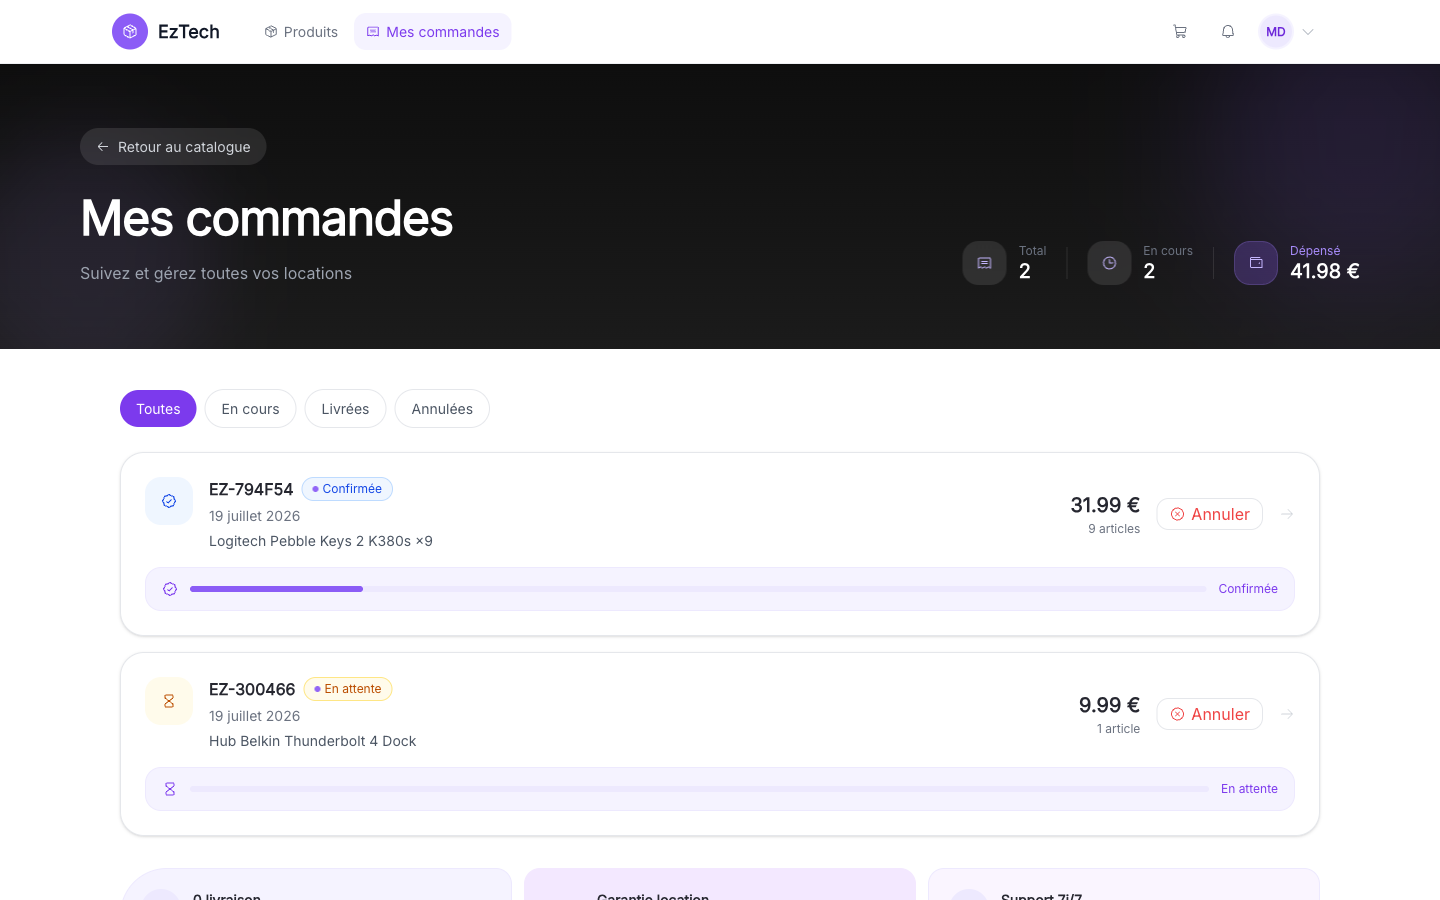
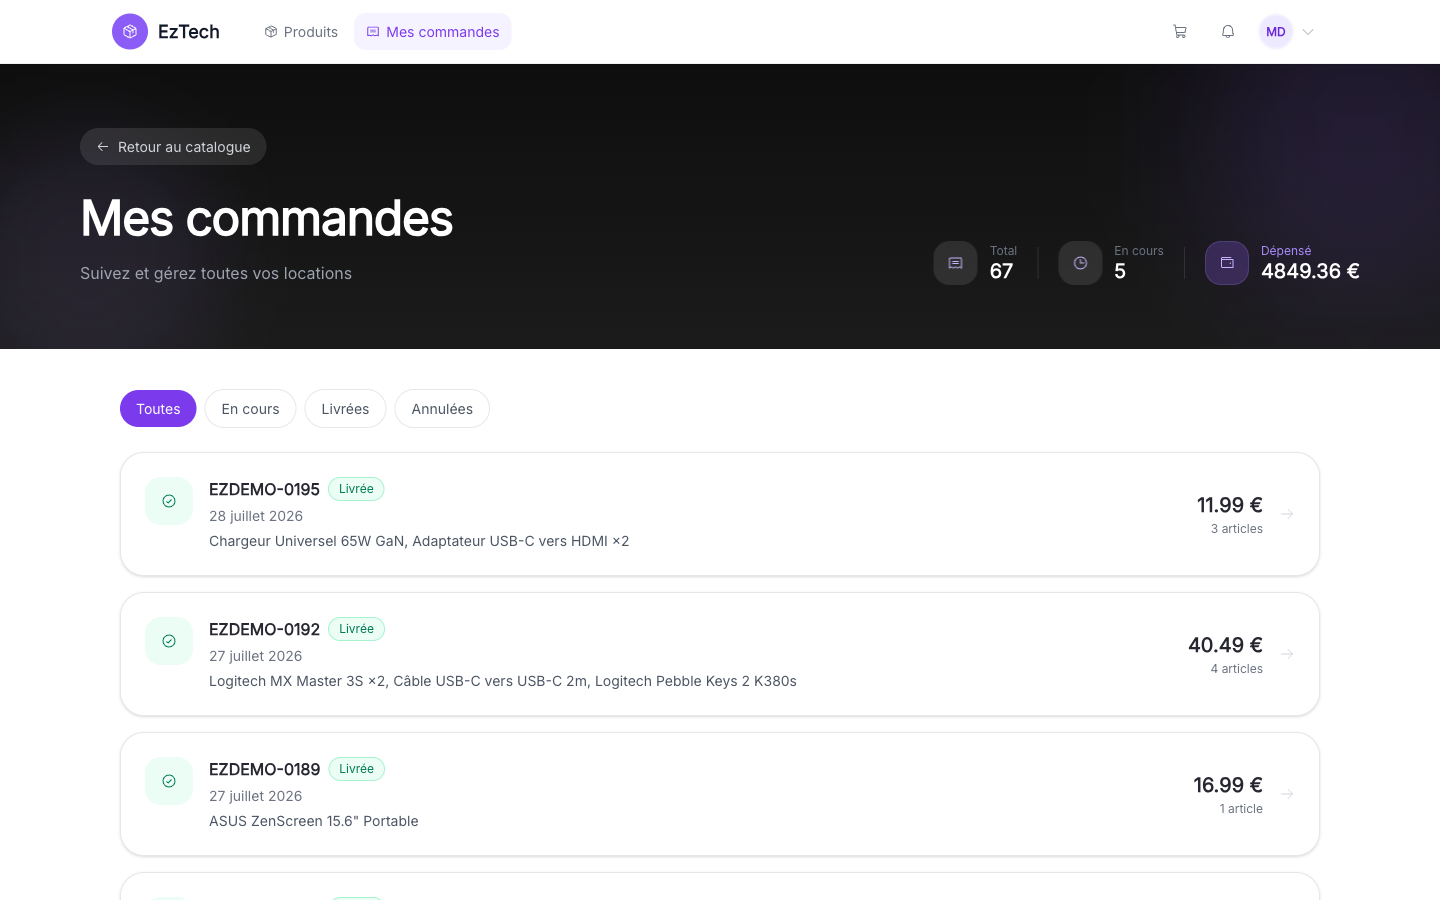
Screenshots for all four roles, plus two accent fixes (#40)
* add warehouse and admin screenshots, fix prete accent

* extract e2e waitForHydration helper with a 30s cold-start timeout

diff --git a/frontend/e2e/helpers.ts b/frontend/e2e/helpers.ts
@@ -1,0 +1,25 @@
+import type { Page } from '@playwright/test'
+
+// The stack under test serves the Nuxt DEV server (SSR + client hydration). Playwright's auto-wait
+// only checks an element is visible/enabled — NOT that Vue has finished hydrating and wired up its
+// listeners. Clicking "Se connecter" before hydration completes runs a NATIVE form submit (full-page
+// GET to /login) instead of the @submit.prevent handler: the /auth/login request never fires and the
+// test hangs on waitForURL('**/products'). Wait for the Vue app to be mounted on #__nuxt (Vue sets
+// __vue_app__ on the mount root once hydration runs) before the first interaction.
+
+// En mode dev, chaque route est compilee a sa premiere requete. L'hydratation d'une route froide
+// = compilation + transfert + montage de l'app Vue, ce qui depasse regulierement les 15 s de
+// `actionTimeout` (le defaut applique a waitForFunction). On s'aligne sur `navigationTimeout`
+// (30 s, cf. playwright.config.ts) : l'hydratation releve du cout de navigation, pas d'une action.
+//
+// Sans ce timeout explicite, le premier fichier de la suite — cross-rider-customer.spec.ts, en
+// tete par ordre alphabetique — encaissait seul le demarrage a froid et echouait par
+// intermittence, alors que les specs suivantes profitaient d'un serveur deja chaud.
+const HYDRATION_TIMEOUT = 30_000
+
+export async function waitForHydration(page: Page) {
+  await page.waitForFunction(() => {
+    const el = document.getElementById('__nuxt') as (HTMLElement & { __vue_app__?: unknown }) | null
+    return !!(el && el.__vue_app__)
+  }, undefined, { timeout: HYDRATION_TIMEOUT })
+}

diff --git a/frontend/e2e/rider.spec.ts b/frontend/e2e/rider.spec.ts
@@ -1,4 +1,5 @@
-import { test, expect, type Page, request as playwrightRequest } from '@playwright/test'
+import { test, expect, request as playwrightRequest } from '@playwright/test'
+import { waitForHydration } from './helpers'
 
 // Parcours livreur de bout en bout : inscription (via seed) → passage en ligne → acceptation
 // d'une commande → mises à jour de statut jusqu'à livrée → gains crédités.
@@ -15,14 +16,6 @@ const CUSTOMER_PASSWORD = process.env.E2E_PASSWORD ?? 'password123'
 
 // Les 4 transitions successives déclenchées par le livreur (libellés = NEXT_STATUS, stores/rider.ts).
 const ADVANCE_LABELS = ["Arrivé à l'entrepôt", 'Colis récupéré', 'En route vers le client', 'Livraison effectuée']
-
-// Attendre que Vue ait fini l'hydratation avant la première interaction (cf. smoke.spec.ts).
-async function waitForHydration(page: Page) {
-  await page.waitForFunction(() => {
-    const el = document.getElementById('__nuxt') as (HTMLElement & { __vue_app__?: unknown }) | null
-    return !!(el && el.__vue_app__)
-  })
-}
 
 // Crée une commande pending_assignment directement dans le pool via l'API et renvoie sa référence
 // unique. Auth par bearer token (les mutations en cookie exigent un jeton CSRF ; le bearer non).

diff --git a/frontend/e2e/smoke.spec.ts b/frontend/e2e/smoke.spec.ts
@@ -1,17 +1,5 @@
-import { test, expect, type Page } from '@playwright/test'
-
-// The stack under test serves the Nuxt DEV server (SSR + client hydration). Playwright's auto-wait
-// only checks an element is visible/enabled — NOT that Vue has finished hydrating and wired up its
-// listeners. Clicking "Se connecter" before hydration completes runs a NATIVE form submit (full-page
-// GET to /login) instead of the @submit.prevent handler: the /auth/login request never fires and the
-// test hangs on waitForURL('**/products'). Wait for the Vue app to be mounted on #__nuxt (Vue sets
-// __vue_app__ on the mount root once hydration runs) before the first interaction.
-async function waitForHydration(page: Page) {
-  await page.waitForFunction(() => {
-    const el = document.getElementById('__nuxt') as (HTMLElement & { __vue_app__?: unknown }) | null
-    return !!(el && el.__vue_app__)
-  })
-}
+import { test, expect } from '@playwright/test'
+import { waitForHydration } from './helpers'
 
 // DEPLOY-10 committed E2E smoke gate: login -> catalogue -> cart -> checkout, with one
 // authenticated assertion at the end. Credentials default to the seeded demo customer

diff --git a/frontend/e2e/customer-journey.spec.ts b/frontend/e2e/customer-journey.spec.ts
@@ -1,4 +1,5 @@
-import { test, expect, type Page, request as playwrightRequest } from '@playwright/test'
+import { test, expect, request as playwrightRequest } from '@playwright/test'
+import { waitForHydration } from './helpers'
 
 // Parcours client : inscription → catalogue → panier → checkout, puis suivi de commande.
 //
@@ -8,13 +9,6 @@ import { test, expect, type Page, request as playwrightRequest } from '@playwrig
 const API = process.env.E2E_API_URL ?? 'http://localhost:3001'
 const CUSTOMER_EMAIL = process.env.E2E_EMAIL ?? 'marie@example.com'
 const CUSTOMER_PASSWORD = process.env.E2E_PASSWORD ?? 'password123'
-
-async function waitForHydration(page: Page) {
-  await page.waitForFunction(() => {
-    const el = document.getElementById('__nuxt') as (HTMLElement & { __vue_app__?: unknown }) | null
-    return !!(el && el.__vue_app__)
-  })
-}
 
 test('parcours client : inscription → catalogue → panier → checkout', async ({ page }) => {
   const email = `cust-e2e-${Date.now()}@example.com`

diff --git a/frontend/e2e/warehouse-journey.spec.ts b/frontend/e2e/warehouse-journey.spec.ts
@@ -1,4 +1,5 @@
 import { test, expect, type Page, request as playwrightRequest } from '@playwright/test'
+import { waitForHydration } from './helpers'
 
 // Parcours responsable d'entrepot : connexion → ajustement d'inventaire → inspection d'un retour.
 // Determinisme : le retour a inspecter est cree de bout en bout via l'API (client planifie → livreur
@@ -11,13 +12,6 @@ const CUSTOMER_EMAIL = process.env.E2E_EMAIL ?? 'marie@example.com'
 const CUSTOMER_PASSWORD = process.env.E2E_PASSWORD ?? 'password123'
 const RIDER_EMAIL = process.env.E2E_RIDER_EMAIL ?? 'rider@eztech.fr'
 const RIDER_PASSWORD = process.env.E2E_RIDER_PASSWORD ?? 'riderpass123'
-
-async function waitForHydration(page: Page) {
-  await page.waitForFunction(() => {
-    const el = document.getElementById('__nuxt') as (HTMLElement & { __vue_app__?: unknown }) | null
-    return !!(el && el.__vue_app__)
-  })
-}
 
 async function apiLogin(email: string, password: string) {
   const ctx = await playwrightRequest.newContext()

diff --git a/frontend/e2e/cross-rider-customer.spec.ts b/frontend/e2e/cross-rider-customer.spec.ts
@@ -1,4 +1,5 @@
-import { test, expect, type Page, request as playwrightRequest, type APIRequestContext } from '@playwright/test'
+import { test, expect, request as playwrightRequest, type APIRequestContext } from '@playwright/test'
+import { waitForHydration } from './helpers'
 
 // Test croise livreur ↔ client : le client, sur sa page de suivi, voit les mises a jour du livreur
 // en TEMPS REEL (socket) sans jamais rafraichir la page.
@@ -13,13 +14,6 @@ const RIDER_PASSWORD = process.env.E2E_RIDER_PASSWORD ?? 'riderpass123'
 
 // laisse le temps au socket de propager l'evenement order-status
 const LIVE = { timeout: 20_000 }
-
-async function waitForHydration(page: Page) {
-  await page.waitForFunction(() => {
-    const el = document.getElementById('__nuxt') as (HTMLElement & { __vue_app__?: unknown }) | null
-    return !!(el && el.__vue_app__)
-  })
-}
 
 async function apiLogin(email: string, password: string) {
   const ctx = await playwrightRequest.newContext()

diff --git a/frontend/app/pages/warehouse/dashboard.vue b/frontend/app/pages/warehouse/dashboard.vue
@@ -80,10 +80,10 @@ async function prepare(o: OrderToPrepare) {
               </p>
             </div>
             <span v-if="o.preparedAt" class="shrink-0 rounded-full bg-emerald-100 px-3 py-1 text-caption font-semibold text-emerald-700">
-              <Icon name="ph:check" class="inline size-3" /> Prete
+              <Icon name="ph:check" class="inline size-3" /> Prête
             </span>
             <Button v-else size="sm" :disabled="preparingId === o.id" @click="prepare(o)">
-              <Icon name="ph:hand-arrow-down" class="mr-2 size-4" /> Prete pour le ramassage
+              <Icon name="ph:hand-arrow-down" class="mr-2 size-4" /> Prête pour le ramassage
             </Button>
           </CardContent>
         </Card>

diff --git a/README.md b/README.md
@@ -68,7 +68,15 @@ UI and — authoritatively — on the server. Admins draw and edit zones on a ma
 | --- | --- |
 | ![Customer orders](docs/screenshots/03-customer-orders.png) | ![Rider dashboard](docs/screenshots/04-rider-dashboard.png) |
 
-> Captured from the live production deployment.
+| Warehouse — dashboard | Admin — dashboard |
+| --- | --- |
+| ![Warehouse dashboard](docs/screenshots/05-warehouse-dashboard.png) | ![Admin dashboard](docs/screenshots/06-admin-dashboard.png) |
+
+**Admin — analytics**
+
+![Admin analytics](docs/screenshots/07-admin-analytics.png)
+
+> Captured from the live production deployment, covering all four roles.
 
 ---
 
